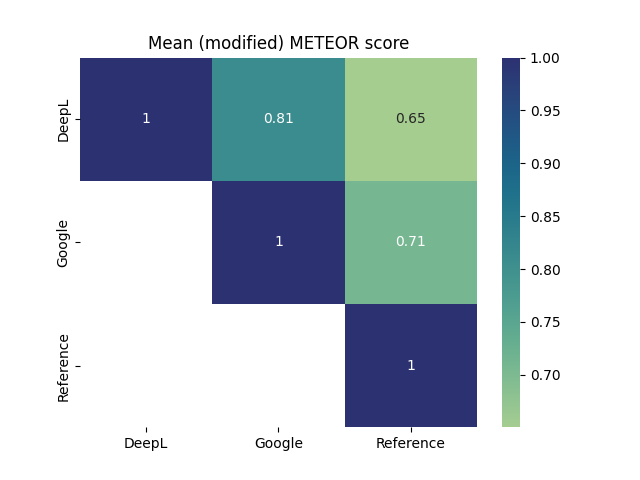
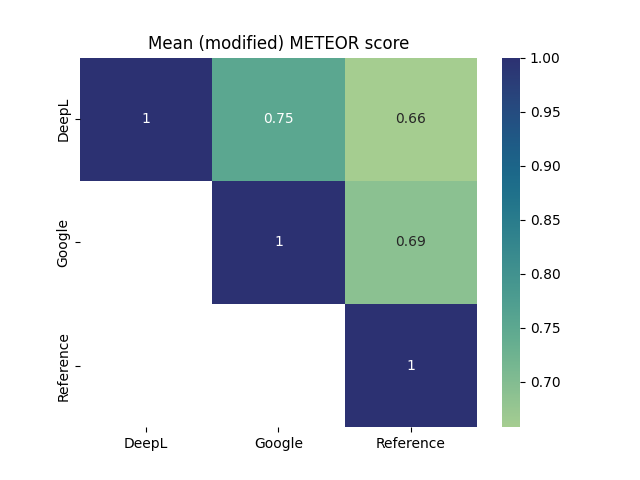
feat: metrics written in Go, not C++
the metrics' logic have been changed, so the tests were adjusted accordingly
LD is now by character, as is traditional, rather than by word
METEOR had an error corrected

diff --git a/workflow/levenshtein.go b/workflow/levenshtein.go
@@ -1,0 +1,62 @@
+package main
+
+import "C"
+
+func main() {
+	// Unecessary, exporting Levenshtein only
+}
+
+//export Levenshtein
+func Levenshtein(s *C.char, t *C.char) C.int {
+	// convert to Go Runes
+	// index 0 represents the empty string
+	candidate :=  []rune( "Λ" + C.GoString(s) )
+	reference :=  []rune( "Λ" + C.GoString(t) )
+
+	// get the length of the input strings
+	m := len(candidate)
+	n := len(reference)
+
+	// base cases
+	if m == 0 {
+		return C.int(n)
+	} else if n == 0 {
+		return C.int(m)
+	}
+
+	// for all i and j, d[i][j] will hold the Levenshtein Distance between
+	// the first i characters of s and the first j characters of t
+	// each element in d is set to 0
+	d := make([][]int, m+1)
+	for i := range d {
+		d[i] = make([]int, n+1)
+	}
+
+	// source prefixes can be transformed into empty string by
+	// dropping all characters
+	for i := 0; i < m; i++ {
+		d[i][0] = i
+	}
+
+	// target prefixes can be reached from empty source prefix
+	// by inserting every character
+	for j := 0; j < n; j++ {
+		d[0][j] = j
+	}
+
+	var substitutionCost int
+
+	for j := 1; j < n; j++ {
+		for i := 1; i < m; i++ {
+			if candidate[i] == reference[j] {
+				substitutionCost = 0
+			} else {
+				substitutionCost = 1
+			}
+
+			d[i][j] = min(/*deletion*/ d[i-1][j] + 1, /*insertion*/ d[i][j-1] + 1, /*substitution*/ d[i-1][j-1] + substitutionCost)
+		}
+	}
+
+	return C.int(d[m-1][n-1])
+}

diff --git a/workflow/meteor.go b/workflow/meteor.go
@@ -1,0 +1,40 @@
+package main
+
+import "C"
+import "strings"
+
+func main() {
+	// Unecessary, exporting Meteor only
+}
+
+//export Meteor
+func Meteor(s *C.char, t *C.char) C.double {
+    var candidate []string = strings.Split(C.GoString(s), " ")
+    var reference []string = strings.Split(C.GoString(t), " ")
+
+    // Number of words in the candidate translation
+    var wt float64 = float64(len(candidate))
+    // Number of words in the reference translation
+    var wr float64 = float64(len(reference))
+    // Words in both the candidate translation and reference translation
+    var m float64
+    result := 0
+    for _, worda := range candidate {
+        for idx, wordb := range reference {
+            if worda == wordb {
+                result++
+                reference[idx] = ""
+                break
+            }
+        }
+    }
+    
+    m = float64(result)
+
+    // Calculate precision and recall
+    var recall float64 = m/wr
+    var precision float64 = m/wt
+
+    // Calculates the weighted harmonic mean
+    return C.double((10*precision*recall)/(recall+9*precision))
+}

diff --git a/test/test.py b/test/test.py
@@ -4,23 +4,22 @@ from workflow.metrics import levenshtein, meteor
 class TestCases(unittest.TestCase):
     def test_lev(self):
         self.assertEqual(levenshtein("levenshtein distance","levenshtein distance"), 0)
-        self.assertEqual(levenshtein("hello jordan","hello meghan"), 1)
+        self.assertEqual(levenshtein("hello jordan","hello meghan"), 4)
         self.assertEqual(levenshtein("he is","she is"), 1)
-        self.assertEqual(levenshtein("two","two hundered"), 1)
-        self.assertEqual(levenshtein("la guerre des mondes","le paire des mondes"), 2)
-        self.assertEqual(levenshtein("ten terrible tantrums on tuesday","five feverish fits on friday"), 4)
+        self.assertEqual(levenshtein("guerre des mondes","paire des mondes"), 4)
         self.assertEqual(levenshtein("était","etait"),1)
-        self.assertEqual(levenshtein("il s'appelle","il se appelle"),2)
-        self.assertEqual(levenshtein("il s'appelle","il appelle"),1)
-        self.assertEqual(levenshtein("ce sont les traductions","les traductions sont là"), 4)
-        self.assertEqual(levenshtein("j'ai 585", "j'en ai 585"), 2)
+        self.assertEqual(levenshtein("il s'appelle","il se appelle"), 2)
+        self.assertEqual(levenshtein("il s'appelle","il appelle"), 2)
+        self.assertEqual(levenshtein("j'ai 585", "j'en ai 585"), 3)
+        self.assertEqual(levenshtein("sung", "cult"), 3)
 
     def test_meteor(self):
         self.assertEqual(meteor("the cat sat on the mat","on the mat sat the cat"), 1)
         self.assertEqual(meteor("the cat sat on the mat","the cat sat on the mat"), 1)
-        self.assertAlmostEqual(meteor("the cat sat on the mat","the cat was sat on the mat"), 0.9836, places=4)
+        self.assertAlmostEqual(meteor("the cat sat on the mat","the cat was sat on the mat"), 0.8695, places=3)
         self.assertEqual(meteor("le chat est sur le tapis","le chat est sur le tapis"), 1)
-        self.assertAlmostEqual(meteor("le chat est sur le tapis","le chat il est sur le tapis"), 0.9836, places=4)
+        self.assertEqual(meteor("le chat","le chien"), 0.5)
+        self.assertAlmostEqual(meteor("le chat est sur le tapis","le chat il est sur le tapis"), 0.8695, places=3)
 
 if __name__ == '__main__':
     unittest.main()

diff --git a/workflow/metrics.py b/workflow/metrics.py
@@ -1,17 +1,20 @@
 import ctypes
 import os
 
+# to compile to .dll, use `go build -buildmode=c-shared -o file.dll file.go`
+# if gcc not found, use `export PATH="/c/msys64/ucrt64/bin:$PATH"`
+
 # Load the DLLs
-meteor_dll = ctypes.CDLL(os.path.dirname(__file__) + "\\meteor.dll")
+meteor_dll = ctypes.WinDLL(os.path.dirname(__file__) + "\\meteor.dll")
 lev_dll = ctypes.WinDLL(os.path.dirname(__file__) + "\\levenshtein.dll")
 
 # Set resolution types
-meteor_dll.meteor.restype = ctypes.c_double
+meteor_dll.Meteor.restype = ctypes.c_double
 
 def levenshtein(s,t):
     # Call the levenshtein distance function from the DLL
-    return lev_dll.levenshtein(s.encode('utf-8'), t.encode('utf-8'))
+    return lev_dll.Levenshtein(s.encode('utf-8'), t.encode('utf-8'))
 
 def meteor(s,t):
     # Call the meteor function from the DLL
-    return meteor_dll.meteor(s.encode('utf-8'), t.encode('utf-8'))
+    return meteor_dll.Meteor(s.encode('utf-8'), t.encode('utf-8'))

diff --git a/README.md b/README.md
@@ -12,8 +12,6 @@ I implement the dynamic programming version from [Wikipedia](https://en.wikipedi
 
 ![](images/levenshtein.png)
 
-I modify the implementation such that it measures the distance by word, not by character.
-
 2. METEOR
 
 METEOR (Metric for Evaluation of Translation with Explicit ORdering) was originally introduced in 2005 by [Banerjee & Lavie](https://aclanthology.org/W05-0909.pdf). For simplicty, the current implementation is modified; I do not include the penalty for word order, and simply compute the weighted harmonic mean.
@@ -35,12 +33,10 @@ Unit tests in `test/test.py` are run on push with GitHub Actions.
 
 ## Results
 
-Results from analysis of the data suggest that both DeepL and Google differ significantly from the reference (human) translation in Levenshtein Distance and METEOR score, and that both services' translations are more similar to each other than to the references<sup>1</sup>. However, Google seems to approach more closely the reference translation, having a higher METEOR score and lower Levenshtein Distance to the reference than DeepL does.
+Results from analysis of the data suggest that both DeepL and Google differ significantly from the reference (human) translation in Levenshtein Distance and METEOR score. However, Google seems to approach more closely the reference translation, having a higher METEOR score and lower Levenshtein Distance to the reference than DeepL does.
 
 **I conclude that Google has a slight edge over DeepL.**
 
 ![](images/figure_lev.png)
 
 ![](images/figure_meteor.png)
-
-<sup>1</sup>This could be due to less literal translations by the human translator or to similarities in the architecture and training of the translation models used by both DeepL and Google.